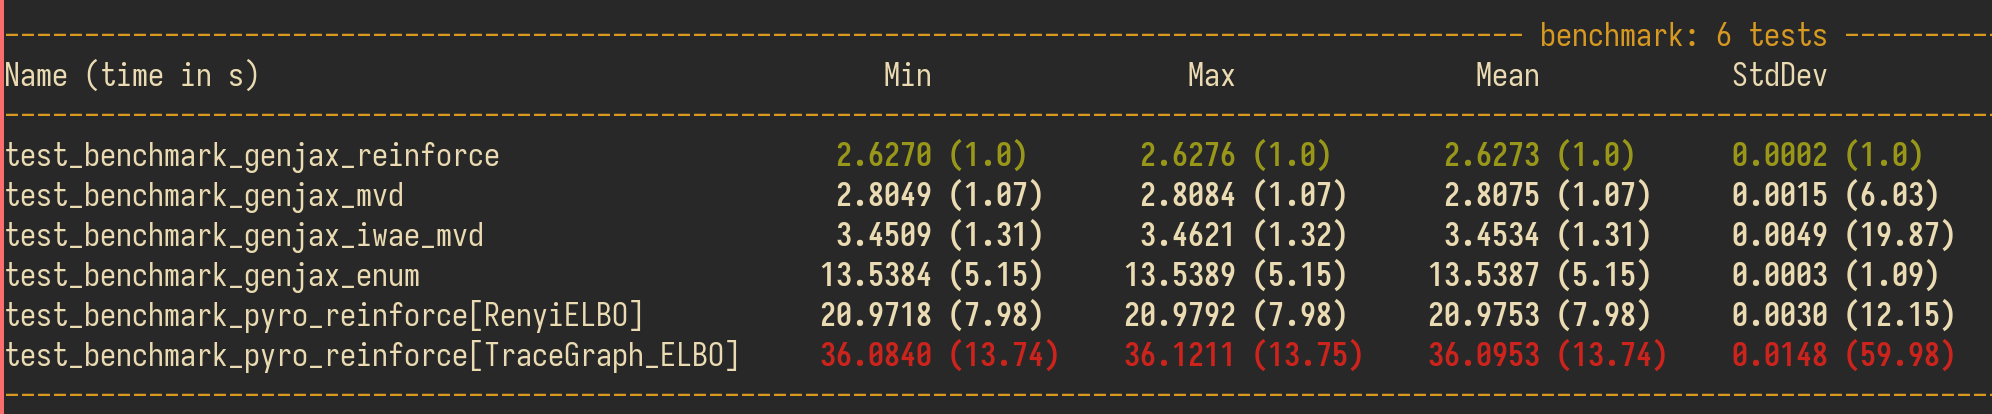
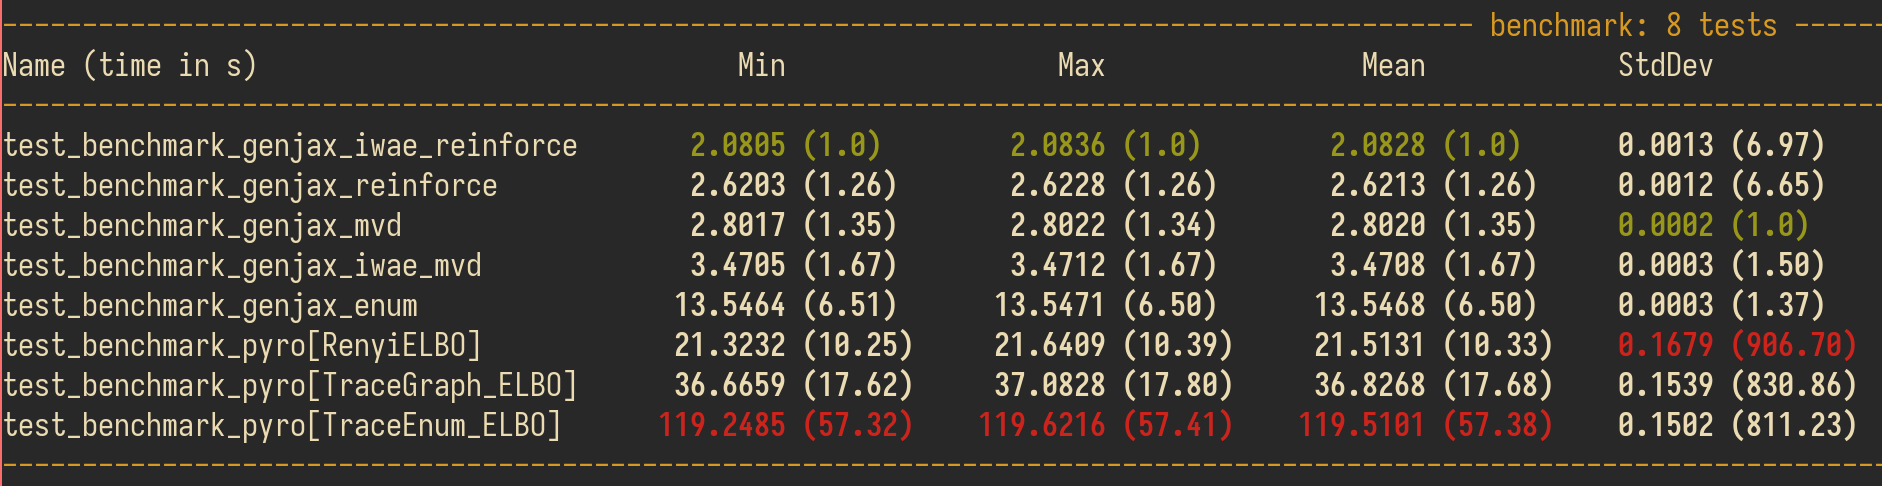
Adding more information for Table 2.

Changed region(s): [[0.0, 0.2609, 1.0, 0.8986], [0.0, 0.029, 1.0, 0.2319], [0.0, 0.9275, 1.0, 0.9565]]

diff --git a/README.md b/README.md
@@ -268,8 +268,9 @@ Several of our experiments (the experiments which produce results for the tables
   ![Table 2 print out](./table_2_print_out.png)
 
   We took the `Mean` and `StdDev` column numbers to generate the results (of form $\text{Mean} \pm \text{StdDev}$) in Table 2. The labels and the numbers for the columns in Table 2 are mapped from the names in the print out e.g. 
-  * `genjax_reinforce` and `pyro_reinforce[TraceGraph_ELBO]` -> REINFORCE
+  * `genjax_reinforce` and `pyro[TraceGraph_ELBO]` -> REINFORCE
   * `genjax_mvd` -> MVD
+  * `genjax_enum` and `pyro[TraceEnum_ELBO]` -> ENUM
   * `genjax_iwae_mvd` -> IWAE + MVD
   * `genjax_iwae_reinforce` and `pyro_reinforce[RenyiELBO]` -> IWAE + REINFORCE
 
